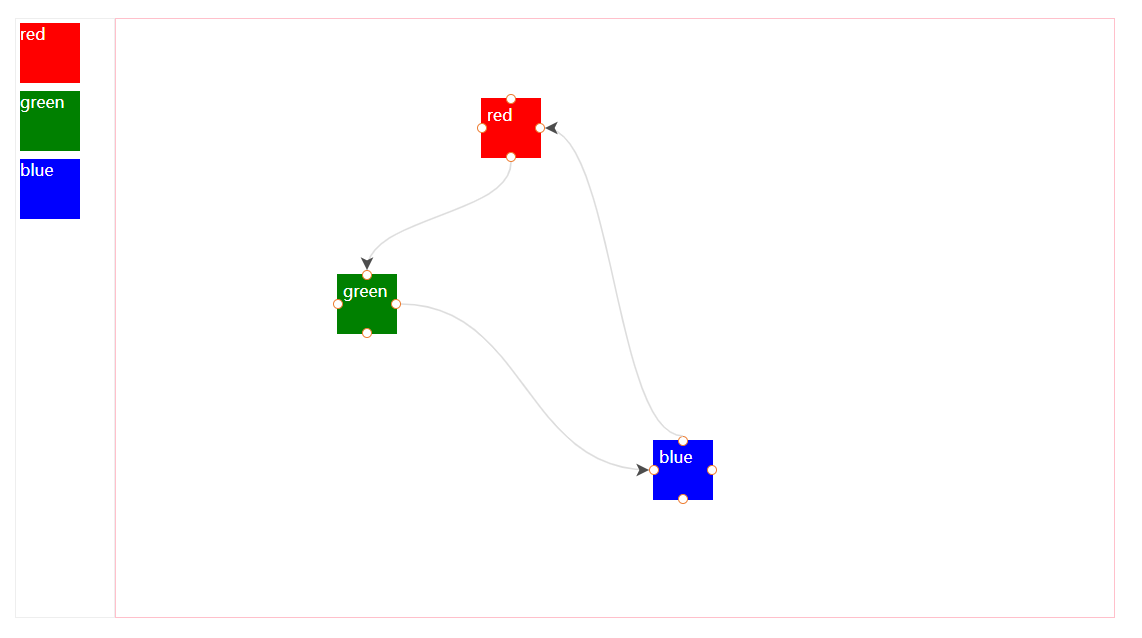
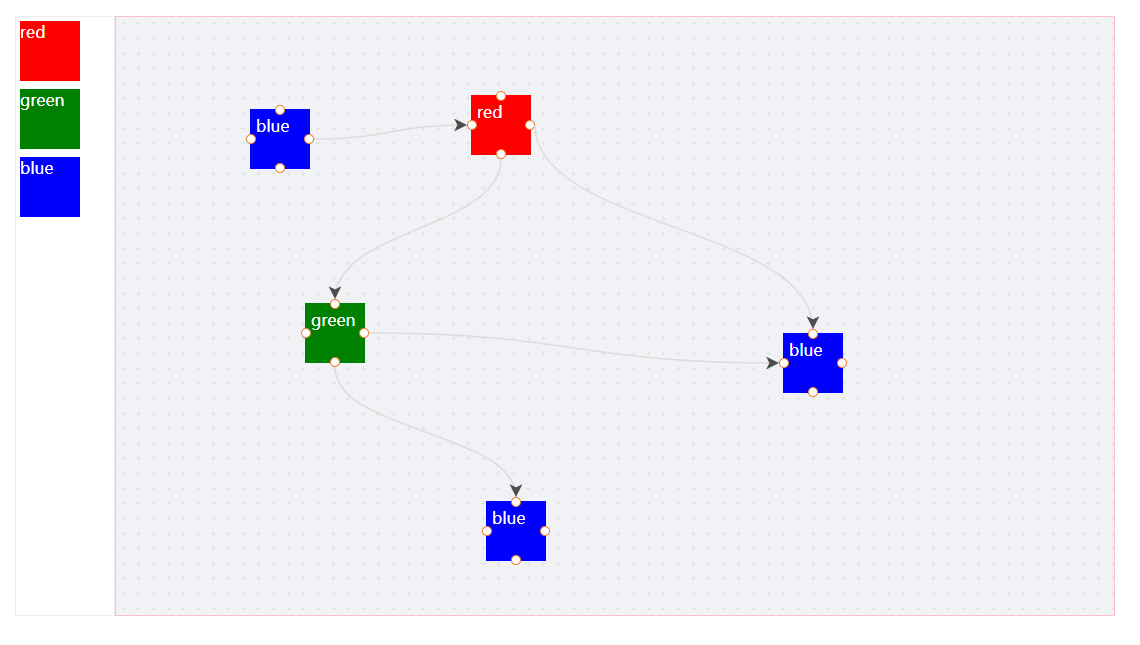
add bg

diff --git a/src/components/FlowChart/index.css b/src/components/FlowChart/index.css
@@ -9,6 +9,10 @@
   padding: 4px;
 }
 
+.comp__flow-chart-wrap_body {
+  background: url('./img/dot-bg.png') repeat;
+}
+
 /* 每个div的上下左右4个点 */
 .comp__flow-chart__obj-wrap {
   position: absolute;
